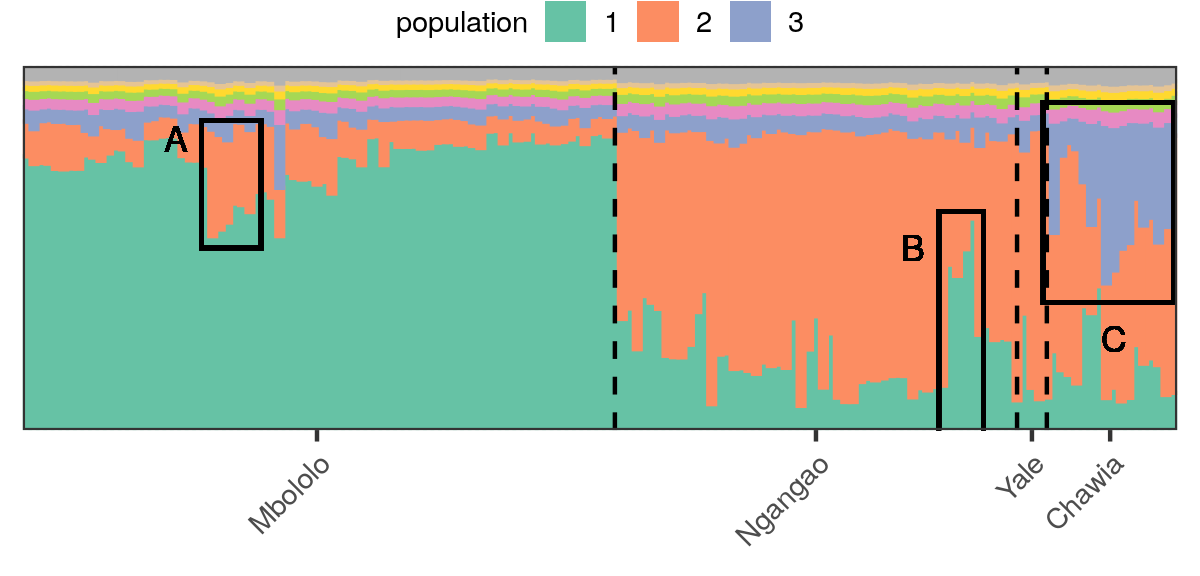
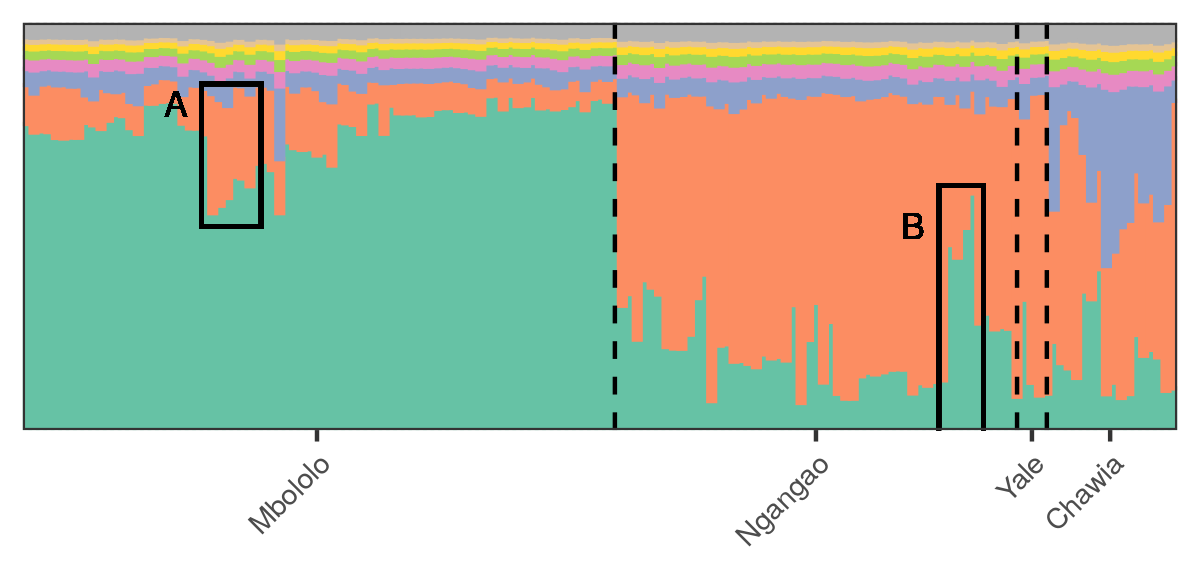
attempting to fix structure motivating example

diff --git a/writing/ISBA_slides_Apr2021/structure_figs.tex b/writing/ISBA_slides_Apr2021/structure_figs.tex
@@ -159,5 +159,38 @@
 }
 
 
+%%%%%%%%%%%%%%%%%%%
+% additional motivating example
+%%%%%%%%%%%%%%%%%%%
+\newcommand{\MbololoMotivatingExample}{
+
+\begin{knitrout}
+\definecolor{shadecolor}{rgb}{0.969, 0.969, 0.969}\color{fgcolor}
+
+{\centering \includegraphics[width=0.637\linewidth,height=0.713\linewidth]{figure/mbololo_motivating_ex-1} 
+
+}
+
+
+
+\end{knitrout}
+}
+
+\newcommand{\MbololoMotivatingExampleInfluence}{
+
+\begin{knitrout}
+\definecolor{shadecolor}{rgb}{0.969, 0.969, 0.969}\color{fgcolor}
+
+{\centering \includegraphics[width=0.931\linewidth,height=0.745\linewidth]{figure/mbololo_motivating_ex_infl-1} 
+
+}
+
+
+
+\end{knitrout}
+}
+
+
+
 
 

diff --git a/writing/ISBA_slides_Apr2021/main.tex b/writing/ISBA_slides_Apr2021/main.tex
@@ -172,6 +172,13 @@ Bayesian Nonparametrics}
   \BadAdmixExampleTraceAll{}
 \end{frame}
 
+\begin{frame}
+  \MbololoMotivatingExample{}
+\end{frame}
+
+\begin{frame}
+  \MbololoMotivatingExampleInfluence{}
+\end{frame}
 
 
 \end{document}
